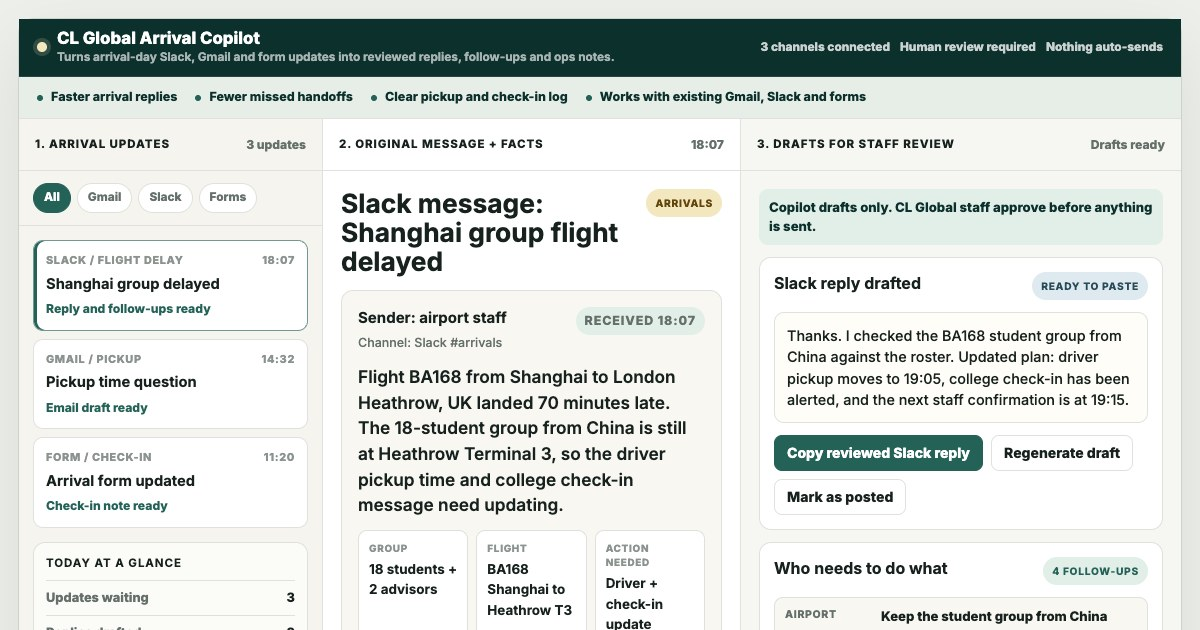
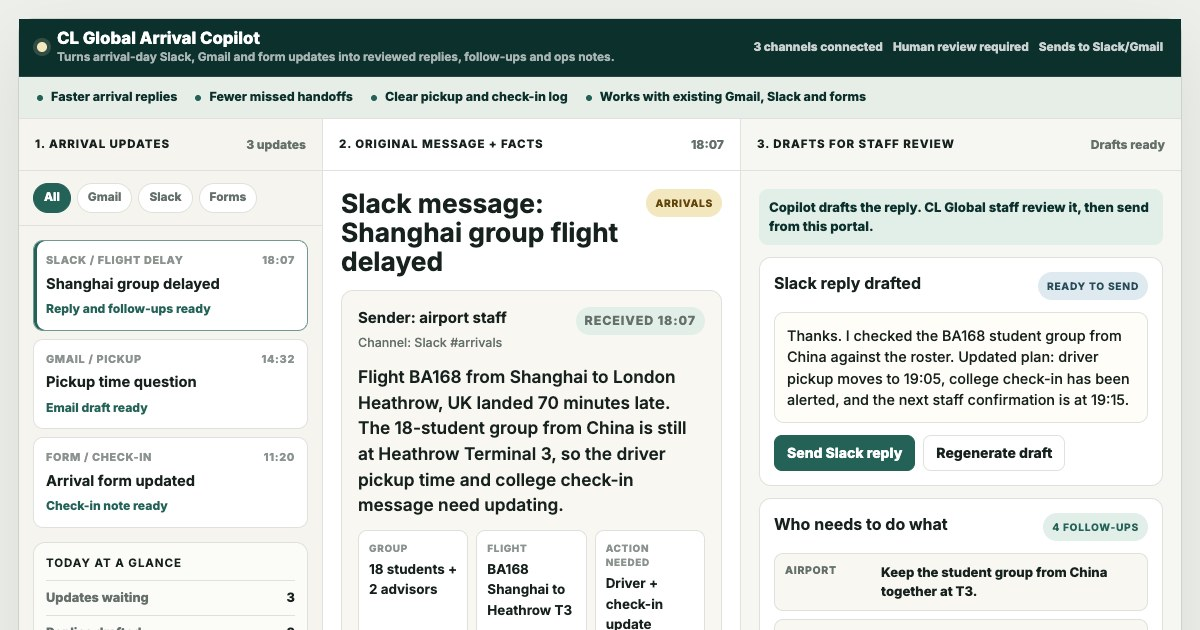
Make arrival copilot send replies

diff --git a/programme-support-copilot.html b/programme-support-copilot.html
@@ -763,7 +763,7 @@
           <div class="top-status" aria-label="Operations portal status">
             <span>3 channels connected</span>
             <span>Human review required</span>
-            <span>Nothing auto-sends</span>
+            <span>Sends to Slack/Gmail</span>
           </div>
         </header>
 
@@ -808,7 +808,7 @@
               <div class="summary-row"><span>Updates waiting</span><strong>3</strong></div>
               <div class="summary-row"><span>Replies drafted</span><strong>3</strong></div>
               <div class="summary-row"><span>Follow-ups written</span><strong>12</strong></div>
-              <div class="summary-row"><span>Messages auto-sent</span><strong>0</strong></div>
+              <div class="summary-row"><span>Sent without review</span><strong>0</strong></div>
             </div>
           </aside>
 
@@ -885,18 +885,17 @@
               <span id="review-pill">Drafts ready</span>
             </div>
             <div class="assistant-body">
-              <div class="status" id="status-line">Copilot drafts only. CL Global staff approve before anything is sent.</div>
+              <div class="status" id="status-line">Copilot drafts the reply. CL Global staff review it, then send from this portal.</div>
 
               <section class="draft-card reply-card">
                 <div class="draft-head">
                   <h3 id="reply-title">Slack reply drafted</h3>
-                  <span class="pill blue" id="reply-pill">Ready to paste</span>
+                  <span class="pill blue" id="reply-pill">Ready to send</span>
                 </div>
                 <div class="draft-box" id="reply-draft"></div>
                 <div class="button-row">
-                  <button class="button primary" type="button" id="copy-reply-button">Copy reviewed Slack reply</button>
+                  <button class="button primary" type="button" id="copy-reply-button">Send Slack reply</button>
                   <button class="button" type="button" id="run-button">Regenerate draft</button>
-                  <button class="button" type="button" id="approve-button">Mark as posted</button>
                 </div>
               </section>
 
@@ -915,7 +914,7 @@
                 </div>
                 <div class="draft-box brief-box" id="plan-draft"></div>
                 <div class="button-row">
-                  <button class="button" type="button" id="copy-button">Copy ops log note</button>
+                  <button class="button" type="button" id="copy-button">Save ops log note</button>
                 </div>
               </section>
             </div>
@@ -963,11 +962,11 @@
             ["College note", "Late check-in update prepared"],
             ["Reminder", "Confirm pickup in Slack at 19:15"]
           ],
-          status: "Copilot drafts only. CL Global staff approve before anything is sent.",
+          status: "Copilot drafts the reply. CL Global staff review it, then send from this portal.",
           replyTitle: "Slack reply drafted",
-          replyPill: "Ready to paste",
-          copyLabel: "Copy reviewed Slack reply",
-          copyStatus: "Reply copied. Paste it into Slack #arrivals.",
+          replyPill: "Ready to send",
+          copyLabel: "Send Slack reply",
+          copyStatus: "Slack reply sent to #arrivals. Follow-ups remain visible for the team.",
           reply:
             "Thanks. I checked the BA168 student group from China against the roster. Updated plan: driver pickup moves to 19:05, college check-in has been alerted, and the next staff confirmation is at 19:15.",
           draft:
@@ -1016,11 +1015,11 @@
             ["Advisor task", "Stay with delayed baggage students"],
             ["Reminder", "Confirm departure at 17:35"]
           ],
-          status: "Copilot drafts only. CL Global staff approve before anything is sent.",
+          status: "Copilot drafts the reply. CL Global staff review it, then send from this portal.",
           replyTitle: "Gmail reply drafted",
-          replyPill: "Ready to paste",
-          copyLabel: "Copy reviewed Gmail reply",
-          copyStatus: "Reply copied. Paste it into the Gmail transfer thread.",
+          replyPill: "Ready to send",
+          copyLabel: "Send Gmail reply",
+          copyStatus: "Gmail reply sent to the transport thread. Follow-ups remain visible for the team.",
           reply:
             "Please hold the coach for 20 minutes while the advisor stays with the two students at baggage claim. If bags are not released by 17:35, depart with the main group and we will arrange a separate car.",
           draft:
@@ -1069,11 +1068,11 @@
             ["Advisor task", "20:30 ETA confirmation created"],
             ["Log note", "Arrival record update ready"]
           ],
-          status: "Copilot drafts only. CL Global staff approve before anything is sent.",
+          status: "Copilot drafts the reply. CL Global staff review it, then send from this portal.",
           replyTitle: "College note drafted",
-          replyPill: "Ready to paste",
-          copyLabel: "Copy reviewed college note",
-          copyStatus: "College note copied. Paste it into the college operations thread.",
+          replyPill: "Ready to send",
+          copyLabel: "Send college note",
+          copyStatus: "College note sent to the operations thread. Follow-ups remain visible for the team.",
           reply:
             "The Shenzhen group is now expected around 21:10 because of immigration delay. Could reception hold check-in for 15 minutes and confirm whether late packed meals can be arranged?",
           draft:
@@ -1091,7 +1090,6 @@
       const filters = [...document.querySelectorAll(".filter")];
       const workspace = document.querySelector(".workspace");
       const runButton = document.getElementById("run-button");
-      const approveButton = document.getElementById("approve-button");
       const copyButton = document.getElementById("copy-button");
       const copyReplyButton = document.getElementById("copy-reply-button");
       const fields = {
@@ -1211,31 +1209,18 @@
           workspace.classList.remove("thinking");
           renderScenario(activeScenario);
           runButton.textContent = "Regenerate";
-          fields.status.textContent = "Drafts refreshed. CL Global staff still approve before anything is sent.";
+          fields.status.textContent = "Drafts refreshed. CL Global staff can send the reviewed reply from this portal.";
         }, 420);
       });
 
-      approveButton.addEventListener("click", () => {
-        fields.replyPill.textContent = "Posted";
-        fields.status.textContent = "Marked as posted. The who-does-what list stays visible for the team.";
+      copyButton.addEventListener("click", () => {
+        fields.draftPill.textContent = "Saved";
+        fields.status.textContent = "Operations log note saved in the arrival record.";
       });
 
-      copyButton.addEventListener("click", async () => {
-        try {
-          await navigator.clipboard.writeText(fields.draft.textContent);
-          fields.status.textContent = "Operations log note copied.";
-        } catch {
-          fields.status.textContent = "Operations log note is ready to copy.";
-        }
-      });
-
-      copyReplyButton.addEventListener("click", async () => {
-        try {
-          await navigator.clipboard.writeText(fields.reply.textContent);
-          fields.status.textContent = scenarios[activeScenario].copyStatus;
-        } catch {
-          fields.status.textContent = "Reply draft is ready to copy.";
-        }
+      copyReplyButton.addEventListener("click", () => {
+        fields.replyPill.textContent = "Sent";
+        fields.status.textContent = scenarios[activeScenario].copyStatus;
       });
 
       renderScenario(activeScenario);